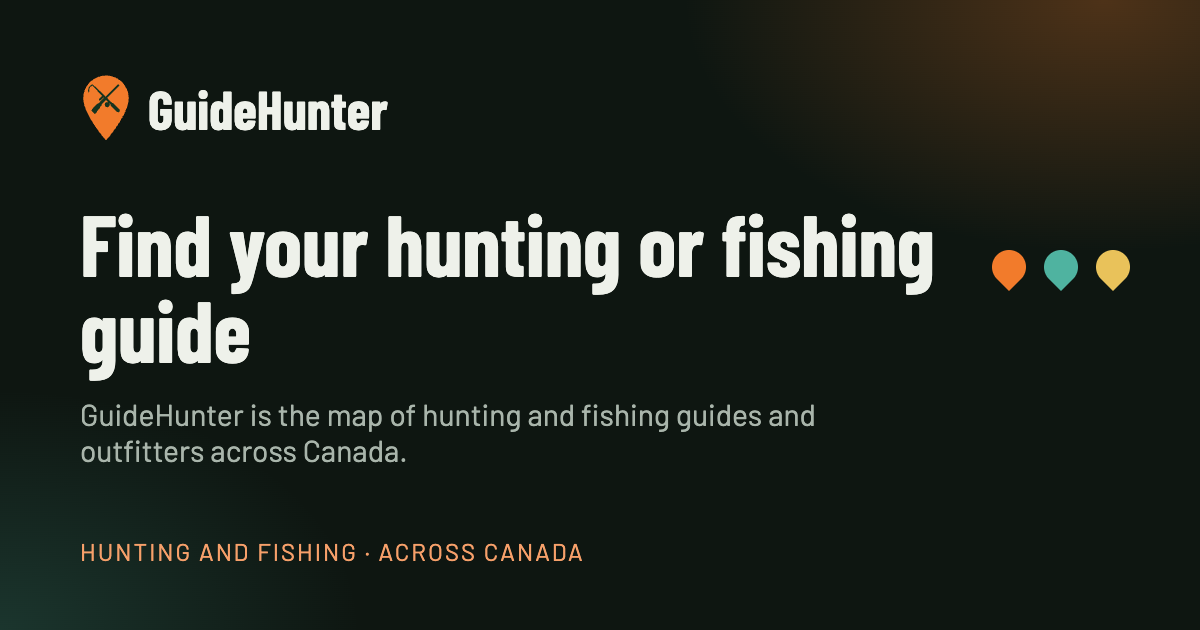
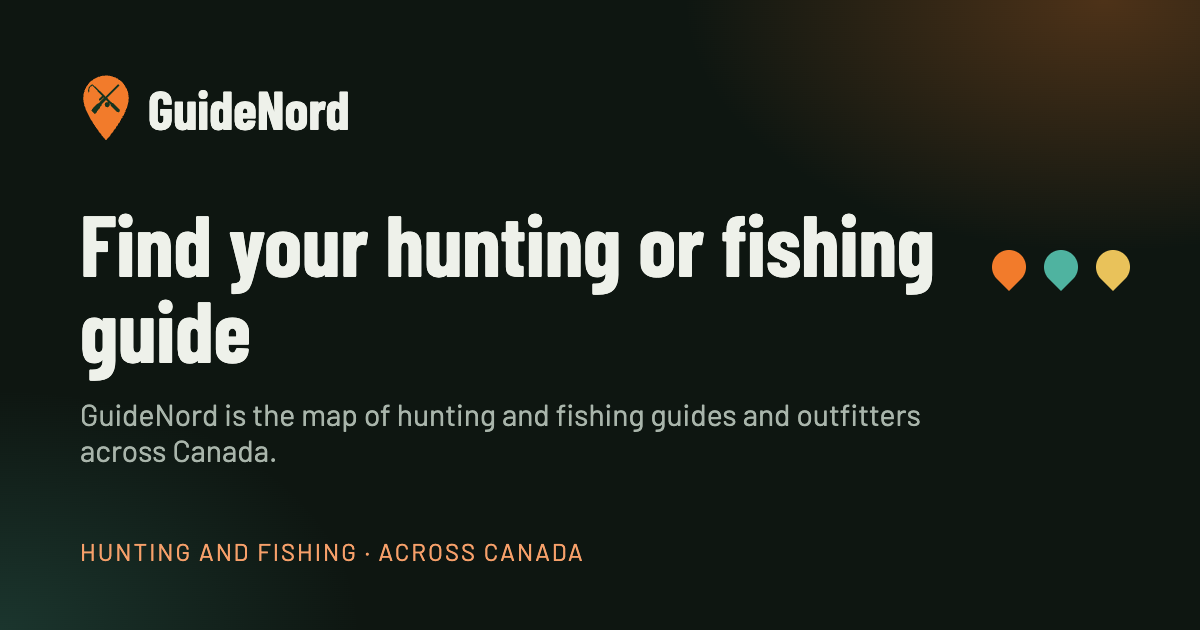
Rename the site to GuideNord

Changed region(s): [[0.0617, 0.6333, 0.7708, 0.754], [0.2158, 0.1508, 0.3392, 0.2111]]

diff --git a/README.md b/README.md
@@ -1,6 +1,6 @@
-# GuideHunter website
+# GuideNord website
 
-The promotional website of the GuideHunter app (Android, [kallistesoft/guidehunter-android](https://github.com/kallistesoft/guidehunter-android)):
+The promotional website of the GuideNord app (Android, [kallistesoft/guidehunter-android](https://github.com/kallistesoft/guidehunter-android)):
 what the app does, for hunters and anglers looking for a guide, and for guides who want to be on the map. Built to
 be found on search engines: one page per species (29, the app's list), one per province, tips articles, FAQ, in French (`/`) and English (`/en/`). It also
 holds the app's privacy policy and account deletion pages, which Google Play asks for.
